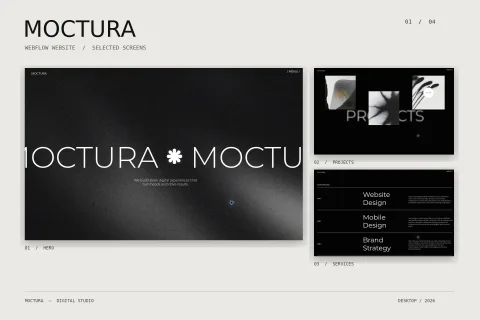
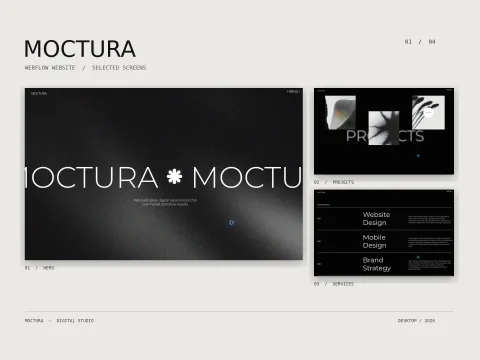
Moctura cover padded to 4:3 for cards; project page cover shown whole, not cropped

diff --git a/src/content/projects/moctura.md b/src/content/projects/moctura.md
@@ -7,7 +7,7 @@ cover:
   src: "/wp-content/uploads/2026/09/moctura-cover.webp"
   alt: "Moctura Webflow website — hero, projects and services screens"
   width: 2400
-  height: 1600
+  height: 1800
 seo:
   title: "Moctura — Webflow Website - Tarasovs Digital Agency"
   description: "Moctura is a concept website for a contemporary digital studio, designed and developed in Webflow with oversized typography and scroll-driven motion."
